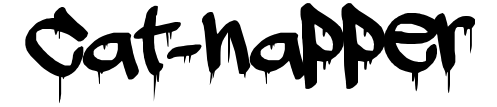
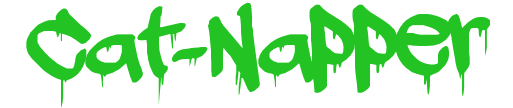
designed the page, added css properties and cleaned up js files

diff --git a/js/index.js b/js/index.js
@@ -13,6 +13,9 @@ window.onload = () => {
 const img = new Image();
 img.src = "../images/ufo.png";
 
+const bgimg = new Image();
+bgimg.src = "../images/AlienCats.png";
+
 class Player {
     constructor() {
         this.x = canvas.width / 2 - 50;
@@ -27,43 +30,43 @@ class Player {
     move(direction) {
         switch (direction) {
             case "left":
-                if (this.x <= 10) {
-                    this.x = 10;
+                if (this.x <= 6) {
+                    this.x = 6;
                     this.driftX = 0;
                     this.driftY = 0;
                 } else {
-                    this.x -= 15;
-                    this.driftX = -0.6;
+                    this.x -= 20;
+                    this.driftX = -1;
                 }
                 break;
             case "right":
-                if (this.x + this.w >= canvas.width - 10) {
-                    this.x = canvas.width - 10 - this.w;
+                if (this.x + this.w >= canvas.width - 6) {
+                    this.x = canvas.width - 6 - this.w;
                     this.driftX = 0;
                     this.driftY = 0;
                 } else {
-                    this.x += 15;
-                    this.driftX = 0.6;
+                    this.x += 20;
+                    this.driftX = 1;
                 }
                 break;
             case "up":
-                if (this.y <= 10) {
-                    this.y = 10;
+                if (this.y <= 6) {
+                    this.y = 6;
                     this.driftX = 0;
                     this.driftY = 0;
                 } else {
-                    this.y -= 15;
-                    this.driftY = -0.6;
+                    this.y -= 20;
+                    this.driftY = -1;
                 }
                 break;
             case "down":
-                if (this.y + this.h >= canvas.height - 10) {
-                    this.y = canvas.height - 10 - this.h;
+                if (this.y + this.h >= canvas.height - 6) {
+                    this.y = canvas.height - 6 - this.h;
                     this.driftX = 0;
                     this.driftY = 0;
                 } else {
-                    this.y += 15;
-                    this.driftY = 0.6;
+                    this.y += 20;
+                    this.driftY = 1;
                 }
         }
     }
@@ -133,7 +136,7 @@ function startGame() {
                 break;
         }
     });
-    const itemInterval = setInterval(addItem, 1500);
+    const itemInterval = setInterval(addItem, Math.random() * 2000);
 
     animate();
 }
@@ -144,7 +147,7 @@ const animate = () => {
     driver.x += driver.driftX;
     driver.y += driver.driftY;
     ctx.drawImage(img, driver.x, driver.y, driver.w, driver.h);
-    ctx.fillStyle = "white";
+    ctx.fillStyle = "#21ff00";
     ctx.font = "24px Arial";
     ctx.fillText("Time:" + time, 15, 20);
     ctx.fillText("Score:" + score, 15, 45);
@@ -186,30 +189,34 @@ function detectCollision(player, obj) {
 function gameOver() {
     obstArr = [];
     ctx.fillStyle = "black";
-    ctx.fillRect(0, 0, canvas.width, canvas.height);
-    ctx.fillStyle = "red";
-    ctx.font = 50;
-    ctx.fillText("GAME OVER", canvas.width / 2 - 80, canvas.height / 2 - 30);
-    ctx.fillText("Score:" + score, canvas.width / 2 - 80, canvas.height / 2);
+    ctx.drawImage(bgimg, 0, 0, canvas.width, canvas.height);
+    ctx.fillStyle = "#21ff00";
+    ctx.font = "bold 40px fantasy";
+    ctx.fillText("GAME OVER", canvas.width / 2 - 110, canvas.height / 2 - 210);
+    ctx.fillText(
+        "Score:" + score,
+        canvas.width / 2 - 75,
+        canvas.height / 2 - 170
+    );
 
     window.cancelAnimationFrame(engine);
 }
 
 const detectWalls = (player) => {
-    if (player.x < 10) {
+    if (player.x < 6) {
         player.x = 11;
         player.driftX = 0;
         player.driftY = 0;
     }
-    if (player.x + player.w > canvas.width - 10) {
+    if (player.x + player.w > canvas.width - 6) {
         player.driftX = 0;
         player.driftY = 0;
     }
-    if (player.y < 10) {
+    if (player.y < 6) {
         player.driftX = 0;
         player.driftY = 0;
     }
-    if (player.y > canvas.height - player.h - 10) {
+    if (player.y > canvas.height - player.h - 6) {
         player.driftX = 00;
         player.driftY = 0;
     }

diff --git a/styles/style.css b/styles/style.css
@@ -1,27 +1,45 @@
 body {
     text-align: center;
+    background-image: url("../images/wallpaper.jpg");
+    background-position: center;
+    background-size: fill;
     background-color: rgb(204, 204, 204);
+    font-family: monospace
 }
 
-
-/* 
 .game-instructions {
-}
-
-.game-instructions p {
+    font-size: 20px;
+    margin: 0;
+    color: limegreen;
+    font-weight: bolder;
+    margin: 0px;
+    padding: 0px;
 }
 
 .game-title {
+    height: 125px;
+    align-items: center;
+    padding: 20px;
 }
 
 .key-controls {
+    height: 60px;
 }
 
 body button {
-} */
+    font-size: 20px;
+    font-family: monospace;
+    background-color: rgb(51, 191, 4);
+    color: blueviolet;
+    padding: 10px 30px;
+    border: 5;
+    border-radius: 10px;
+    margin: 5px;
+    font-weight: bolder;
+}
 
 #game-board {
-    padding: 20px;
+    padding: 10px;
 }
 
 #canvas {

diff --git a/index.html b/index.html
@@ -13,9 +13,11 @@
     <div class="game-instructions">
         <img src="./images/Catnapper title.png" alt="" class="game-title" />
         <br />
-        <button id="start-button">StartGame</button>
-        <p></p>
-        <img src="" alt="" class="key-controls" />
+        <p>
+            Aliens need friends too! <br /> Use your arrow keys to collect cats before time runs out!
+        </p>
+        <img src="./images/arrowkeys.png" alt="" class="key-controls" />
+        <div><button id="start-button">StartGame</button></div>
     </div>
 
     <div id="game-board">
